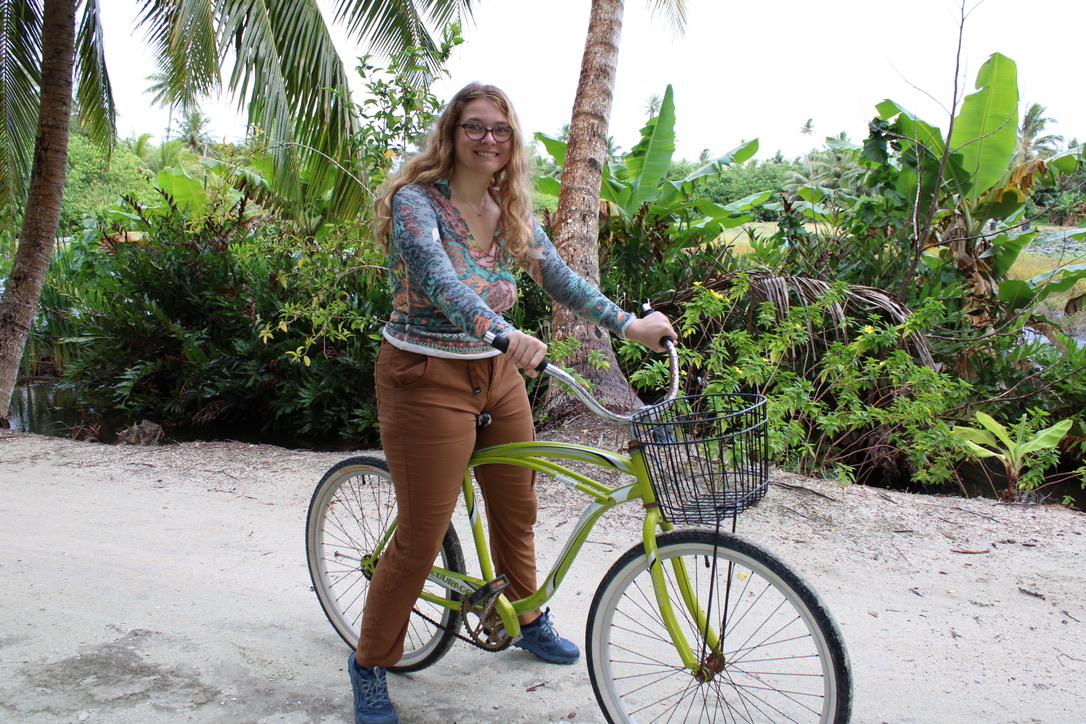
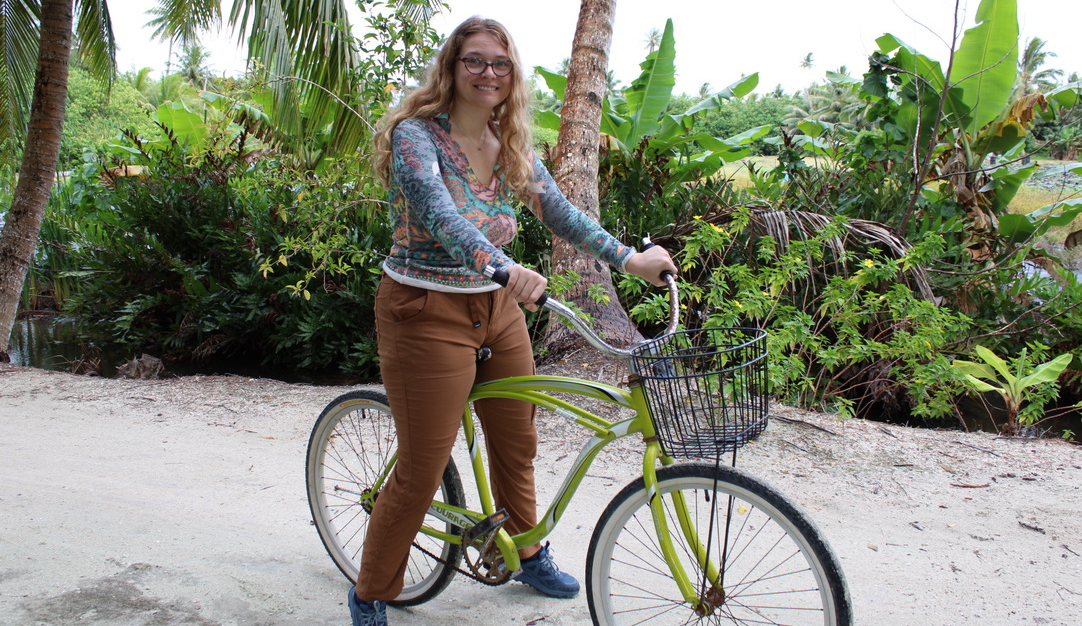
Fixed up photo stuff and colors for blogpost component

diff --git a/src/BlogPost.jsx b/src/BlogPost.jsx
@@ -28,15 +28,16 @@ const Transition = React.forwardRef(function Transition(props, ref) {
           
             <Box
             sx={{
-                backgroundColor:'#519ece'}}
+                backgroundColor:'#3ba3bf'}}
             >
                 {loading ? (
                     <Skeleton variant="rectangular" animation='wave' height='80vh'
-                    sx={{ bgcolor: '#c5d7d6' }} />
+                     />
                 )
                 :
                 (
                 <Image
+                bgColor={'#64d4e4'}
                 height='80vh' 
                 fit='contain'
                 src={props.img0}
@@ -52,7 +53,7 @@ const Transition = React.forwardRef(function Transition(props, ref) {
                         </Typography>
                     </Stack>
 
-                    <Paper sx={{padding: 2}}>
+                    <Paper sx={{padding: 2, bgcolor:'#f3faf9'}}>
                         <Typography variant="body1" color="text.secondary" gutterBottom>
                             {props.p0}
                         </Typography>
@@ -77,7 +78,7 @@ const Transition = React.forwardRef(function Transition(props, ref) {
             }}
             aria-label="close"
             >
-                <ArrowBackIcon sx={{ fontSize: 32, color: '#ede1b5' }} />
+                <ArrowBackIcon sx={{ fontSize: 32, color: 'black' }} />
             </IconButton>
             </Box>
   );

diff --git a/src/ArticleCard.jsx b/src/ArticleCard.jsx
@@ -8,15 +8,19 @@ import Image from 'mui-image'
 
 function ArticleCard(props) {
   const avatar = (props.author === 'cael' ) ? caelAvatar : natAvatar;
+  const { loading = false } = props;
 
   return (
-          true ? (
             <Grid2 xs={3} >
               <Card elevation={3} sx={{ height: 1 }}>
 
               <CardActionArea onClick={props.handleOpenPost}>
                 
-
+              {true ? (
+                    <Skeleton variant="rectangular" animation='wave' height='80vh'/>
+                )
+                :
+                (
                 <Image
                 height='24vh' 
                 fit='cover'
@@ -24,6 +28,7 @@ function ArticleCard(props) {
                 duration={1800}
                 bgColor='#989f40'
                 />
+                )}
 
                 <CardContent >
                 <Stack direction="row" spacing={2}>
@@ -52,9 +57,7 @@ function ArticleCard(props) {
                 </CardActionArea>
               </Card>
             </Grid2>
-          ) : (
-              <Skeleton variant="rectangular" width={210} height={118} />
-            )
+          
   );
   }
   
